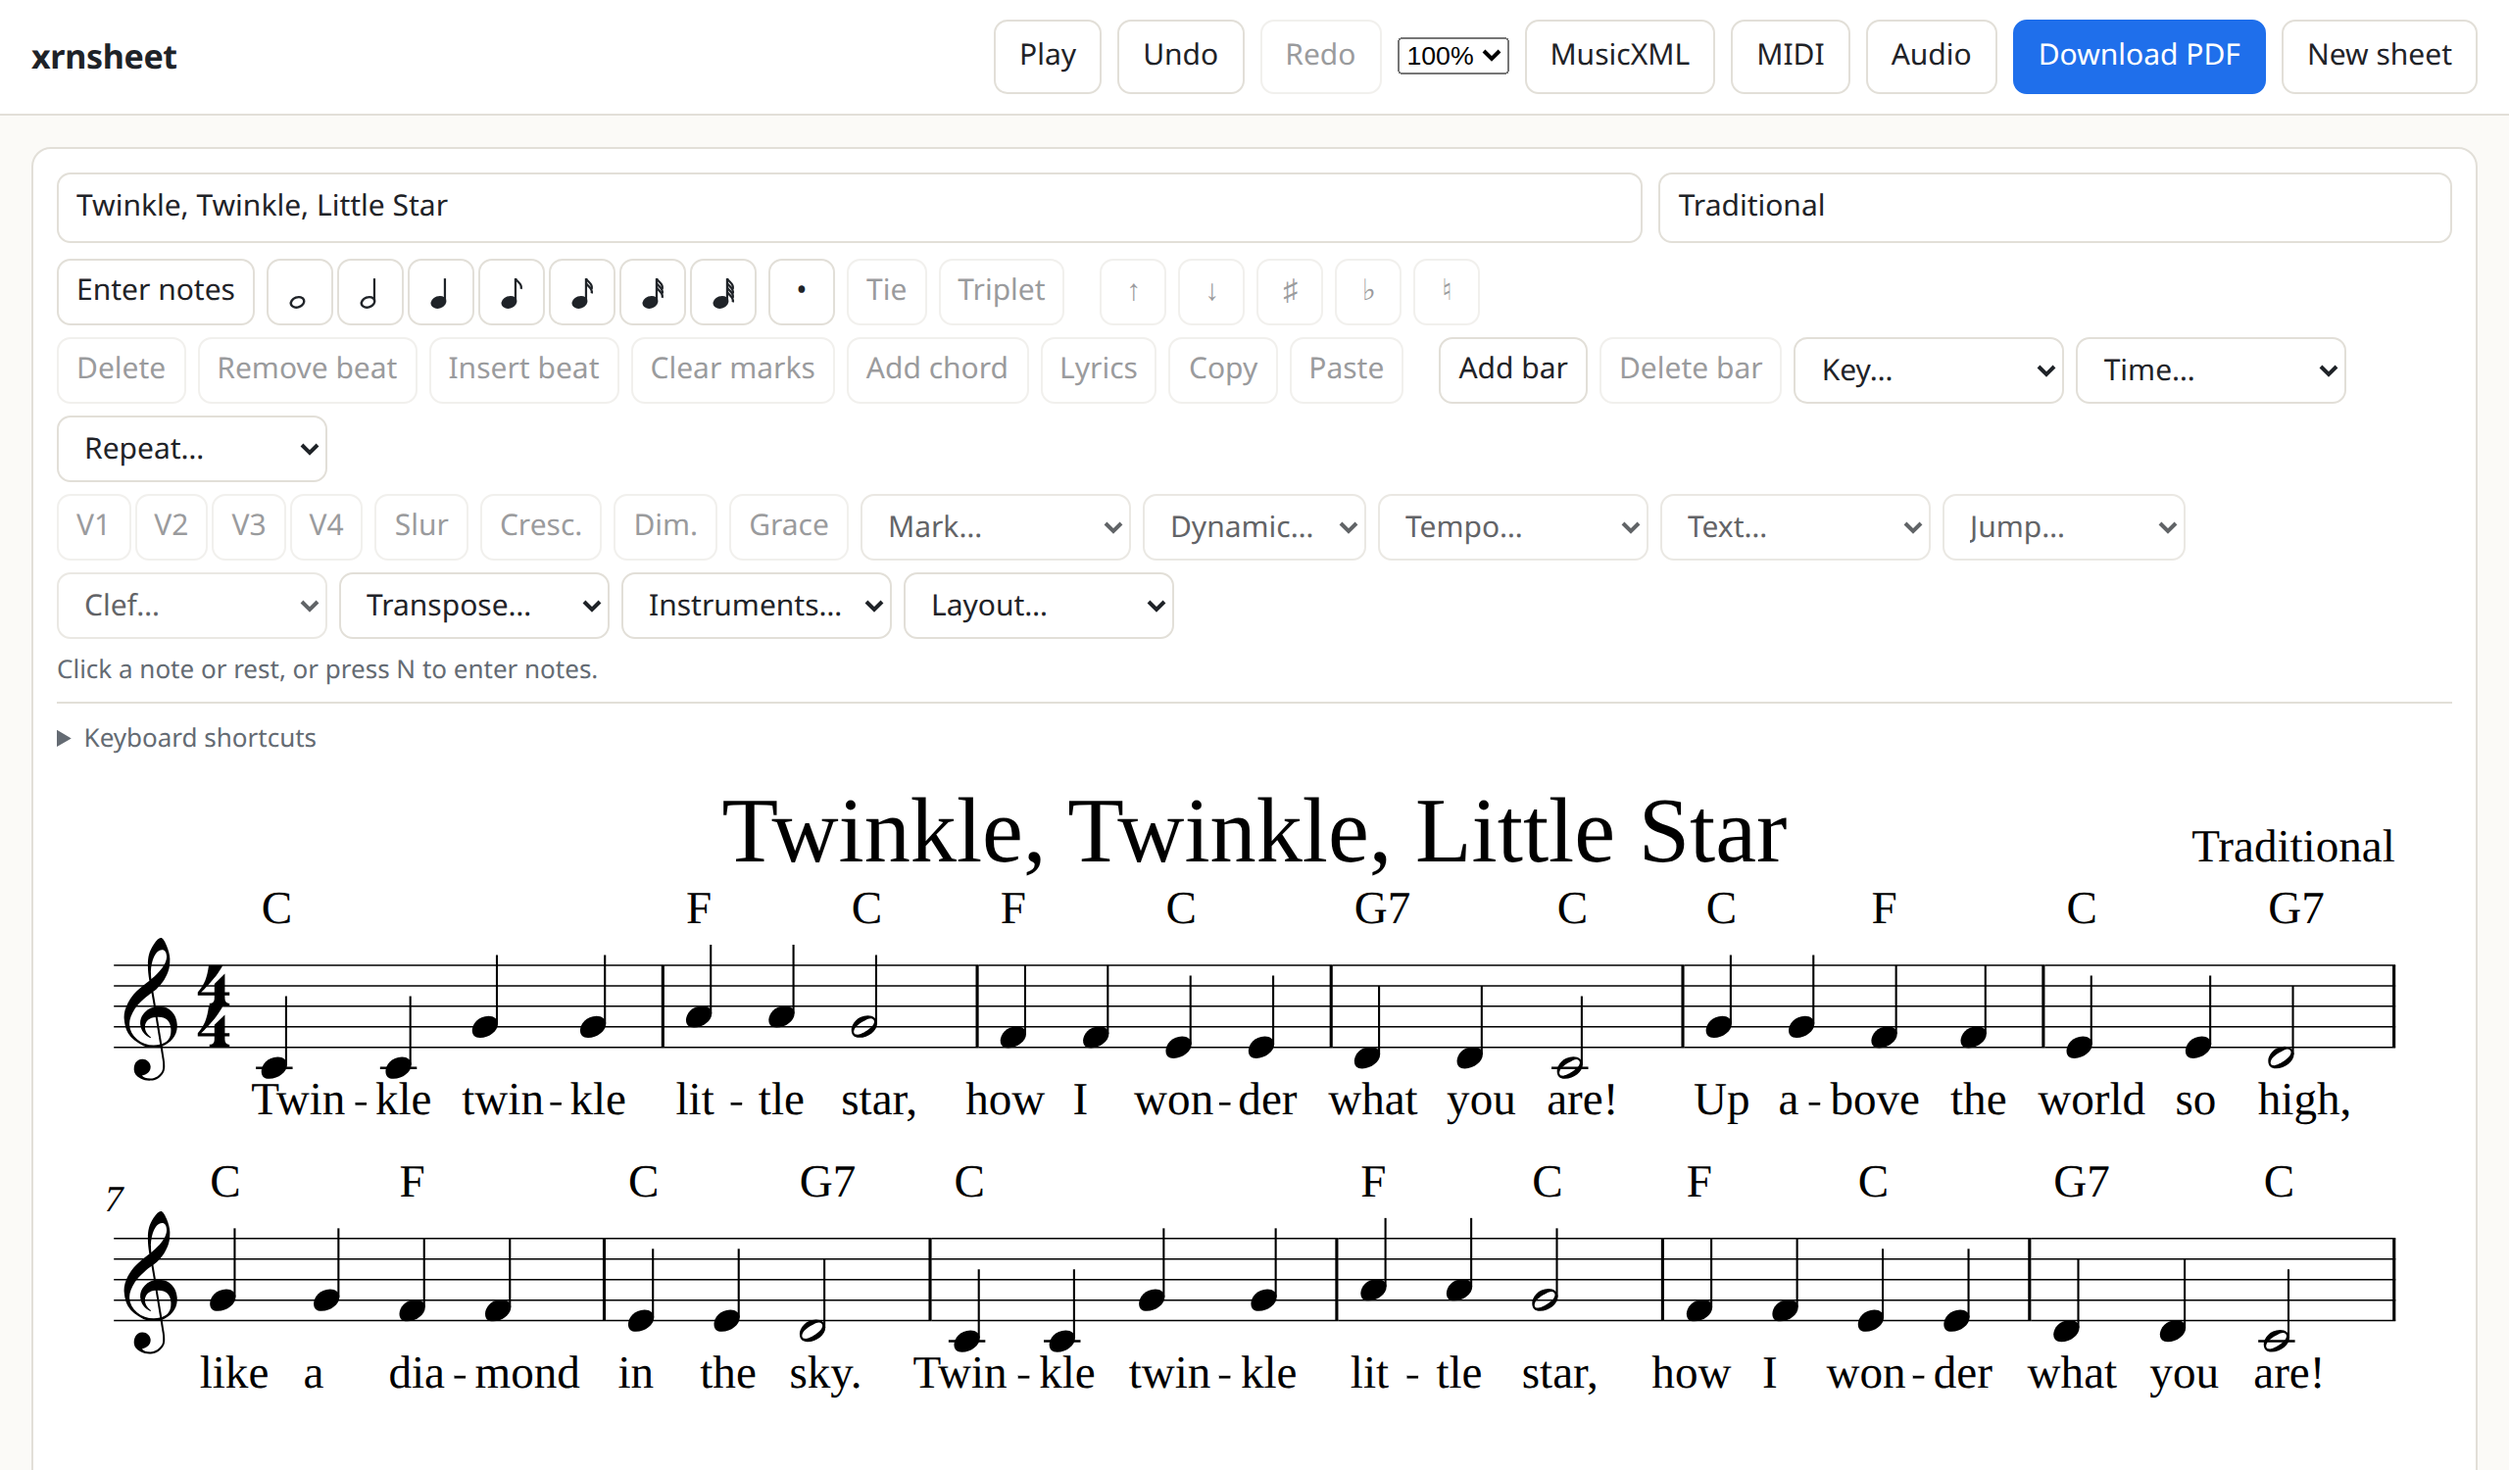
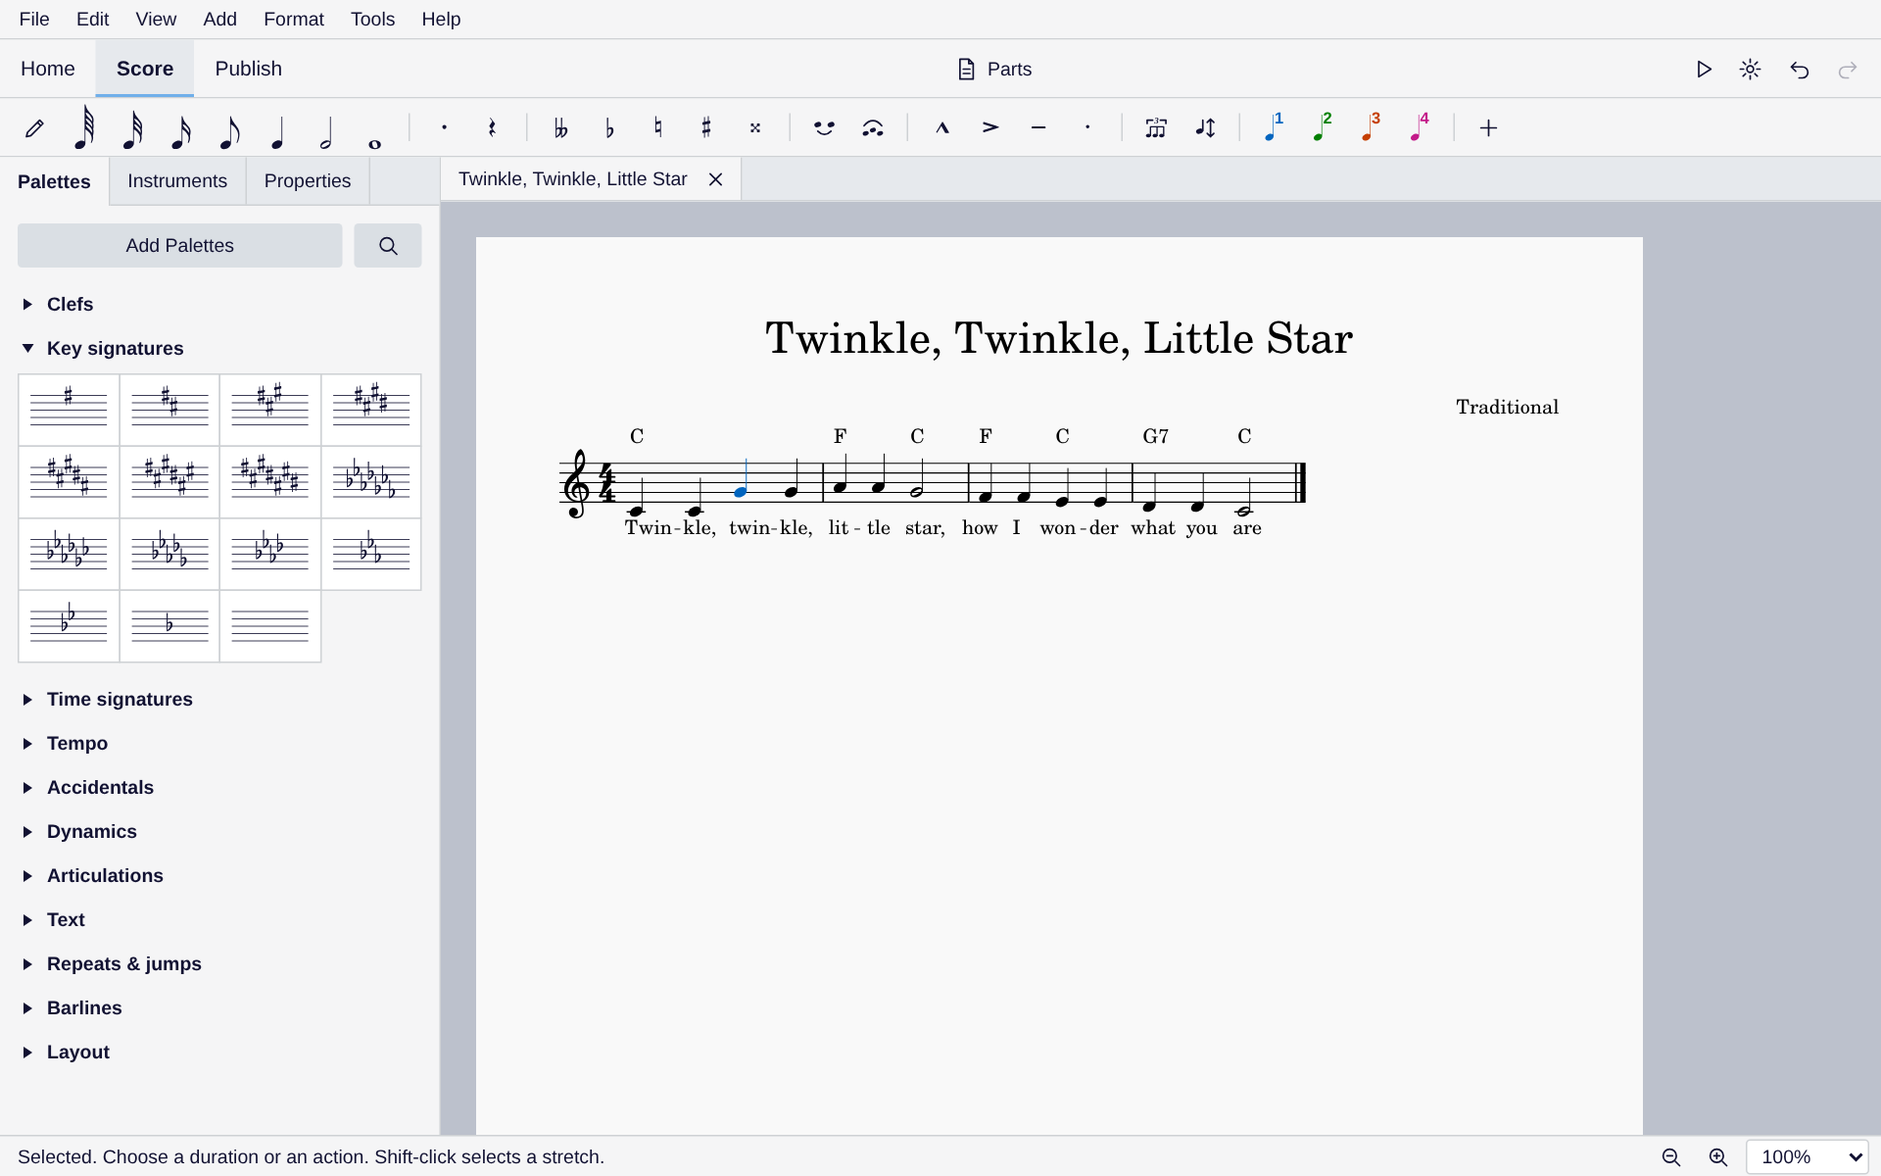
Describe the editor as it is now, and keep a selected note's lyric black
The README still described the old page: a row of menus above the score,
"Or start a blank score", B for flat, arrows that moved along the scale. Its
picture showed that page too.

The editor section now follows the window: the menu bar, Home, New score, the
Score tab's toolbar, panels and status bar, Publish, and the original-sheet
panel for scores read from a photo. The key table is the one Help shows, with
the keys that changed, and it says which key a browser tab keeps for itself.
It ends with what MuseScore has and this editor doesn't yet. The picture is
of the same tune in the new window.

Taking that picture showed a selected note turning its lyric blue with it.
MuseScore colours the note alone, so the lyric keeps the page's ink.

diff --git a/app/static/app.css b/app/static/app.css
@@ -193,6 +193,7 @@ body.publishing #noteBar, body.publishing #side, body.publishing #pitches, body:
 #pages g.harm:hover text, #pages g.harm.active text { fill: var(--voice1); }
 #pages g[data-mark]:hover text, #pages g[data-mark]:hover tspan { fill: var(--voice1); }
 #pages g.selected text, #pages g.selected tspan { fill: var(--voice1); }
+#pages g.selected g.verse, #pages g.selected g.verse * { fill: var(--notes); stroke: none; }
 #pages g.harm.unsure text { fill: var(--warn); }
 body.inputting #pages { cursor: crosshair; }
 #caret { position: absolute; background: color-mix(in srgb, var(--voice1) 22%, transparent); border-left: 2px solid var(--voice1); pointer-events: none; }

diff --git a/README.md b/README.md
@@ -10,7 +10,7 @@ Upload a sheet, check the result beside the original, fix notes and chord symbol
 
 It works well on clean, computer-rendered sheets. It's weak on real handwriting, and it hasn't been tested on real phone photos or real printed pages yet. See [the project report](docs/PROJECT_REPORT.md) for the full results, and [the knowledge guide](docs/KNOWLEDGE_GUIDE.md) for the ideas behind them.
 
-<img src="docs/screenshots/editor.png" alt="The editor with a score written from scratch: Twinkle, Twinkle, Little Star in 4/4, with chord symbols C, F and G7 above the notes and the lyrics below">
+<img src="docs/screenshots/editor.png" alt="The editor with a score written from scratch: Twinkle, Twinkle, Little Star in 4/4, with chord symbols C, F and G7 above the notes and the lyrics below. Above the page are the menu bar, the Home, Score and Publish tabs and the note toolbar, and on the left the palettes">
 
 ## Setup
 
@@ -49,59 +49,92 @@ To read notes with the model in this repository and not homr, which only works f
 .venv/bin/python -m app.server --notes own
 ```
 
-To write music with no photo behind it, choose "Or start a blank score" on the start page and pick a key, time, instrument and number of bars. You can also open a `.musicxml`, `.xml` or `.mxl` file from another program the same way as a photo, and it goes straight to the editor.
+You can also open a `.musicxml`, `.xml` or `.mxl` file from another program the same way as a photo, and it goes straight to the editor.
 
-The keys follow MuseScore. Press `N` to start entering notes, pick a length, and type the letters or click the staff. A new bar appears when you write past the last one.
+### The editor
+
+The window is laid out like MuseScore Studio's, so what you know from there is where you expect it.
+
+- **Menu bar:** File, Edit, View, Add, Format, Tools and Help. Help ▸ Keyboard shortcuts lists every key.
+- **Home:** your scores as pictures of their first pages, with a search box. "New" starts a blank score, "Open other…" opens a photo, PDF or MusicXML file, and "Take a photo" uses a phone's camera. You can also drop a file there.
+- **New score:** choose the instruments first, by family or by searching, then the key, time signature, tempo, number of measures, pickup, title and composer.
+- **Score:** the note toolbar on top, a panel on the left with Palettes, Instruments and Properties, the pages at their printed size, and a status bar with the zoom.
+- **Publish:** Print, and Export to PDF, MusicXML, MIDI or audio.
+
+A score read from a photo or PDF also has the original sheet in a panel on the right, with a box round each chord it found, the chords to check, and "Mark as checked". View ▸ Original sheet hides or shows it.
+
+**Entering notes.** Press `N`, pick a duration, and type the letters or click the staff. A new measure appears when you write past the last one. A longer note overwrites what comes after it and a shorter one leaves a rest, so every measure stays full. A note too long for its measure carries into the next one, tied. A MIDI keyboard works while entering notes, and keys pressed together make a chord.
+
+**Palettes.** Select a note, a stretch or a measure, then click a cell: Clefs, Key signatures, Time signatures (with common and cut time), Tempo, Accidentals (with double sharp and double flat), Dynamics, Articulations, Text, Repeats & jumps, Barlines and Layout. "Add Palettes" has Ornaments, Breaths & pauses, Grace notes, Arpeggios and Lines. The magnifying glass searches every palette. A key or time signature applies from the selected measure, and a barline goes at its end.
+
+**Selecting.** Click a note or rest. Shift-click another to select the stretch between them, which gets a blue box. Click an empty part of a measure to select the whole measure. A stretch moves, deletes or copies as one undo step, within one voice. Click a dynamic, tempo, text, sign, slur or hairpin to select it: Delete removes it, and a double-click or `F2` changes its text. A right-click opens a menu for whatever is under the pointer.
+
+**Instruments and parts.** The Instruments panel adds and removes instruments, and a transposing instrument gets its own key. "Parts" opens one instrument alone as a PDF.
+
+**Properties.** With nothing selected it has the title and composer and the system breaks. With a note selected it moves or respells the note, clears its marks, and adds a chord symbol or lyrics. It also inserts and deletes measures, makes the first measure a pickup, and removes or inserts a beat.
 
 | Key | Action |
 |---|---|
 | `N` | Start or stop entering notes |
-| `A` to `G` | Write that note and move on |
-| Shift+`A` to `G` | Add that note to the chord just written |
-| `1` to `7` | Length, from a 64th to a whole note. `5` is a quarter note |
+| `A` to `G` | While entering notes, write that note and move on. On a selected note, rename it |
+| Shift+`A` to `G` | Add that note to the chord |
+| Alt+`2` to `9` | Add a note that interval above |
+| `1` to `7` | Duration, from a 64th to a whole note. `5` is a quarter note |
+| `Q` `W` | Half or twice as long. With Shift, step through the dotted lengths |
 | `.` | Dotted |
 | `0` | Rest |
 | `T` | Tie to the next note |
-| Ctrl+`3` | Make a triplet from the chosen length, or take one away. Ctrl+`5`, `6` and `7` make other tuplets |
-| `#` `-` `=` | Sharp, flat, natural. `b` also means flat when you aren't entering notes |
-| ↑ ↓ | Move a note. With Ctrl, move an octave |
-| ← → | Previous or next note |
-| Shift+click, Shift+← → | Select a stretch of notes |
+| Ctrl+`3` | Make a triplet from the chosen duration, or take one away. Ctrl+`5`, `6` and `7` make other tuplets |
+| `+` `-` `=` | Sharp, flat, natural. `#` is also sharp |
+| ↑ ↓ | Move a note a semitone. With Ctrl, an octave. With Alt+Shift, one step of the scale |
+| ← → | Previous or next note. With Ctrl, previous or next measure |
+| Ctrl+Home, Ctrl+End | First or last note of the staff |
+| Shift with any of those, Shift+click | Select a stretch of notes |
 | Ctrl+A | Select the whole staff |
 | Ctrl+C, Ctrl+X, Ctrl+V | Copy, cut, paste, also between scores |
-| Ctrl+L | Type lyrics. Space moves on, `-` joins syllables, ↓ ↑ change verse, Enter finishes. On the last note both stay in the word |
+| `R` | Repeat this note or stretch |
+| Delete | Turn into a rest, or remove a selected mark |
+| Ctrl+Delete | Remove the selected time: measures selected from end to end go, and less than a measure pulls the later notes in |
+| Insert, Ctrl+B | Insert a measure before the selection, or add one at the end |
+| Ctrl+L | Type lyrics. Space moves on, `-` joins syllables, ↓ ↑ change verse, Enter finishes |
+| Ctrl+K | Chord symbol |
+| Ctrl+T, Ctrl+E, Ctrl+M | Staff text, expression text, rehearsal mark |
+| Alt+Shift+T | Tempo marking |
 | `S` | Slur a stretch, or this note to the next |
 | `<` `>` | Crescendo, diminuendo over a stretch |
 | Shift+`S` `V` `N` `O` | Staccato, accent, tenuto, marcato |
 | `/` | Add a grace note before this note |
-| `R` | Repeat this note or stretch |
 | `J` | Swap for the same note under another name, as C♯ for D♭ |
 | `X` | Flip the stem |
 | Ctrl+Alt+`1` to `4` | Write in that voice, or move the selection to it |
-| Enter | Start a new line at this bar |
+| Enter | Start a new line at this measure, or open a selected mark's text |
 | Space | Play or stop, from the selected note |
 | Ctrl+Z, Ctrl+Y | Undo, redo |
-| Delete, Ctrl+Delete | Turn into a rest, or remove the beat and pull later notes in |
-| Esc | Stop entering notes, or close the chord editor |
+| `F9`, `F7`, `F8` | Show or hide Palettes, Instruments, Properties |
+| Ctrl+`=`, Ctrl+`-`, Ctrl+`0` | Zoom in, zoom out, 100%. Ctrl and the mouse wheel also zoom |
+| Esc | Stop entering notes, clear the selection, or close a menu or box |
 | Click the staff | While entering notes, place a note there. Shift+click adds it to a chord |
 | Drag a selected note | Move it up or down |
-| Click a dynamic, tempo, text, slur or hairpin | Change or remove it |
+| Drag the paper | Move the pages about |
+| Double-click the title | Change the title and composer |
 
-A longer note overwrites what comes after it, and a shorter one leaves a rest, so every bar stays full. Bars that don't add up to the time signature are listed above the score, which is usually how a misread rhythm shows itself. Click one to go there, then fix it with "Remove beat" or "Insert beat". The toolbar also adds and deletes bars, and changes the key or time from the selected bar. A new time signature doesn't move notes between bars: the ones that no longer fit are listed for you to fix.
+The keys are MuseScore's where MuseScore has one. A browser keeps a few for itself: in an ordinary tab Ctrl+T opens a new tab, so use Add ▸ Text ▸ Staff text there.
 
-A note too long for its bar carries into the next one, tied. A selected stretch moves, deletes or copies as one undo step, within one voice.
+Measures that don't add up to the time signature are listed above the score, which is usually how a misread rhythm shows itself. Click one to go there, then fix it with "Remove beat" or "Insert beat" in the Properties panel. A new time signature doesn't move notes between measures: the ones that no longer fit are listed for you to fix.
 
-Play sounds the notes and the chord symbols, starting from the selected note. It follows repeats, first and second endings, D.C. and D.S. with Fine and Coda, tempo changes, dynamics and hairpins, swing, and articulations and ornaments. The menu beside Play slows it down or speeds it up.
+Play sounds the notes and the chord symbols, starting from the selected note. It follows repeats, first and second endings, D.C. and D.S. with Fine and Coda, tempo changes, dynamics and hairpins, swing, and articulations and ornaments. The cog beside Play slows it down or speeds it up.
 
-The row of menus above the score adds marks, dynamics, tempos, text, rehearsal letters, jumps and clefs. "Transpose…" moves the selection, or the whole score if nothing is selected, by an interval, for a B♭, E♭ or F instrument, or to a key, and the chord symbols move with it. "Instruments…" adds a part, and a transposing instrument gets its own key. "Layout…" sets how many bars go on a line, and "Time…" also makes the first bar a pickup. A part can be printed alone, and the MIDI link saves a file for other music programs. A MIDI keyboard works while entering notes, and keys pressed together make a chord.
+Tools ▸ Transpose moves the selection, or the whole score if nothing is selected, to a key or by an interval, and the chord symbols move with it. Format ▸ Add/remove system breaks sets how many measures go on a line.
 
-A staff can hold four voices. Choose one with V1 to V4 or Ctrl+Alt and a number, and the arrows stay in that voice. If you write a rest in an extra voice, it stays there so you can carry on, and Delete removes it.
+A staff can hold four voices. Choose one with the coloured buttons or Ctrl+Alt and a number, and the arrows stay in that voice. If you write a rest in an extra voice, it stays there so you can carry on, and Delete removes it.
 
-To write a triplet, pick the length it should fill, press Ctrl+`3`, and type its three notes. A quarter gives eighth-note triplets. A triplet can't be cut in half, so selecting or copying any note of one takes the whole triplet.
+To write a triplet, pick the duration it should fill, press Ctrl+`3`, and type its three notes. A quarter gives eighth-note triplets. A triplet can't be cut in half, so selecting or copying any note of one takes the whole triplet.
 
-The "Repeat…" menu starts or ends a repeat at the selected bar, and marks it as a first or second ending. Select several bars to put one ending over all of them. The title and composer you type above the score are printed. A title recognition guessed isn't printed until you save it.
+Repeats & jumps starts or ends a repeat at the selected measure, and marks it as a first or second ending. Select several measures to put one ending over all of them. A title recognition guessed isn't printed until you save it in File ▸ Project properties.
 
-Click a chord to change or remove it. Doubtful chords are coloured and listed under "Please check". "Clear marks" removes a false fermata or ornament from a note. "Mark as checked" tells the app you've finished with a sheet, which makes it usable as training data. Bars you added or deleted are allowed for, so a chord that only moved isn't treated as a misread one.
+Click a chord symbol to change or remove it. Doubtful chords are coloured and listed under "Please check". "Clear marks" removes a false fermata or ornament from a note. "Mark as checked" tells the app you've finished with a sheet, which makes it usable as training data. Measures you added or deleted are allowed for, so a chord that only moved isn't treated as a misread one.
+
+What MuseScore has and this editor doesn't yet: the mixer, the piano keyboard, the timeline, continuous view, concert pitch, the playback toolbar's loop, metronome and position, and page and style settings.
 
 To recognize a sheet without the app:
 
